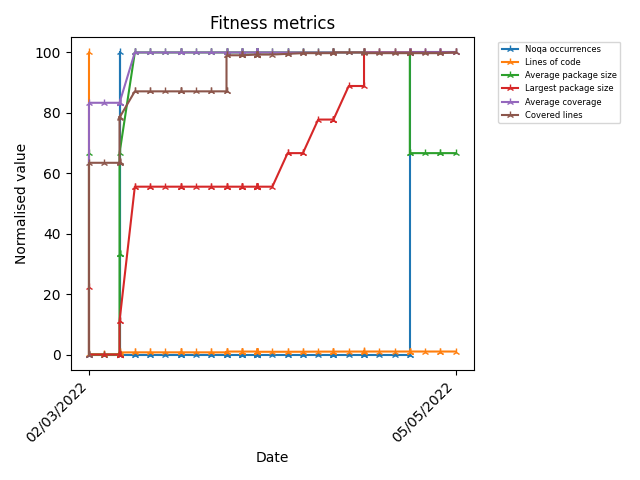
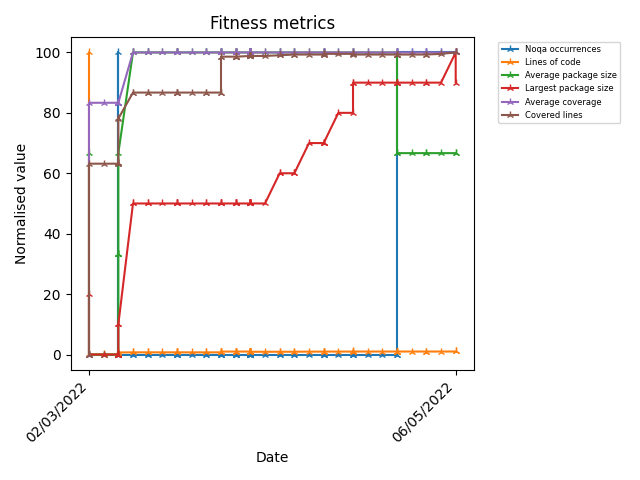
Hotfix TRSV2-197 : Resolving Persistent Sentry Errors (#208)
* Product.DoesNotExist error - https://sentry.ci.uktrade.digital/organizations/dit/issues/37413/?environment=prod&project=130&query=is%3Aunresolved

Opensearch 404 error - https://sentry.ci.uktrade.digital/organizations/dit/issues/56637/?environment=prod&project=130&query=is%3Aunresolved

* [ci skip] AUTOMATED - update fitness functions

* black reformatting

* [ci skip] AUTOMATED - update fitness functions

Changed region(s): [[0.125, 0.0938, 0.7188, 0.75], [0.625, 0.875, 0.6562, 0.9062]]

diff --git a/trade_remedies_api/cases/services/api.py b/trade_remedies_api/cases/services/api.py
@@ -1,9 +1,10 @@
 import datetime
 import json
 import re
+import logging
 from dateutil import parser
 
-from core.services.base import TradeRemediesApiView, ResponseSuccess
+from core.services.base import ResponseError, TradeRemediesApiView, ResponseSuccess
 from core.services.exceptions import (
     InvalidRequestParams,
     NotFoundApiExceptions,
@@ -84,16 +85,22 @@ from workflow.models import WorkflowTemplate
 from django_countries import countries
 from django.utils import timezone
 
+logger = logging.getLogger(__name__)
+
 
 class PublicCaseView(APIView):
     def get(self, request, case_number=None, *args, **kwargs):
         match = re.search("([A-Za-z]{1,3})([0-9]+)", case_number)
-        case = Case.objects.get(
-            type__acronym__iexact=match.group(1),
-            initiated_sequence=match.group(2),
-            deleted_at__isnull=True,
-        )
-        return ResponseSuccess({"result": case.to_dict()})
+        if match:
+            case = Case.objects.get(
+                type__acronym__iexact=match.group(1),
+                initiated_sequence=match.group(2),
+                deleted_at__isnull=True,
+            )
+            return ResponseSuccess({"result": case.to_dict()})
+        else:
+            logger.debug(f"Request to this view with case_number {case_number}")
+            return ResponseSuccess({"result": None})
 
 
 class PublicNoticeView(APIView):
@@ -458,7 +465,6 @@ class CasesCountAPIView(TradeRemediesApiView):
     """
 
     def get(self, request, organisation_id=None, case_id=None, user_id=None, *args, **kwargs):
-
         not_archived = not request.query_params.get("archived")
         not_initiated = not request.query_params.get("initiated")
         count = Case.objects.filter(

diff --git a/trade_remedies_api/cases/models/case.py b/trade_remedies_api/cases/models/case.py
@@ -1074,10 +1074,16 @@ class Case(BaseModel, CaseOrNotice):
             raise InvalidAccess("Denied: Only TRA users can remove case team members")
 
     def derive_case_name(self):
+        from . import Product
+
         try:
             name = []
-            product = self.product_set.get()
-            name.append(product.name)
+            try:
+                product = self.product_set.get()
+            except Product.DoesNotExist:
+                name.append("N/A")
+            else:
+                name.append(product.name)
             first_export_country = self.exportsource_set.all().order_by("created_at").first()
             if first_export_country:
                 name.append("from")

diff --git a/trade_remedies_api/documents/models.py b/trade_remedies_api/documents/models.py
@@ -243,6 +243,9 @@ class Document(BaseModel):
                     id=str(self.id),
                 )
                 return result.get("result") == "deleted"
+            except NotFoundError as exc:
+                # OpenSearch document not found, probably uploaded before opensearch was activated
+                pass
             except Exception as exc:
                 logger.error(f"cannot delete OpenSearch document: {self.id} - {exc}")
         return False

diff --git a/trade_remedies_api/config/settings/base.py b/trade_remedies_api/config/settings/base.py
@@ -26,6 +26,7 @@ env = environ.Env(
 def strip_sensitive_data(event, hint):
     """Removing any potential passwords from being sent to Sentry as part of an exception/log"""
     event.get("request", {}).get("data", {}).pop("password", None)
+    event.get("request", {}).get("headers", {}).pop("X-Origin-Environment")
     return event
 
 
